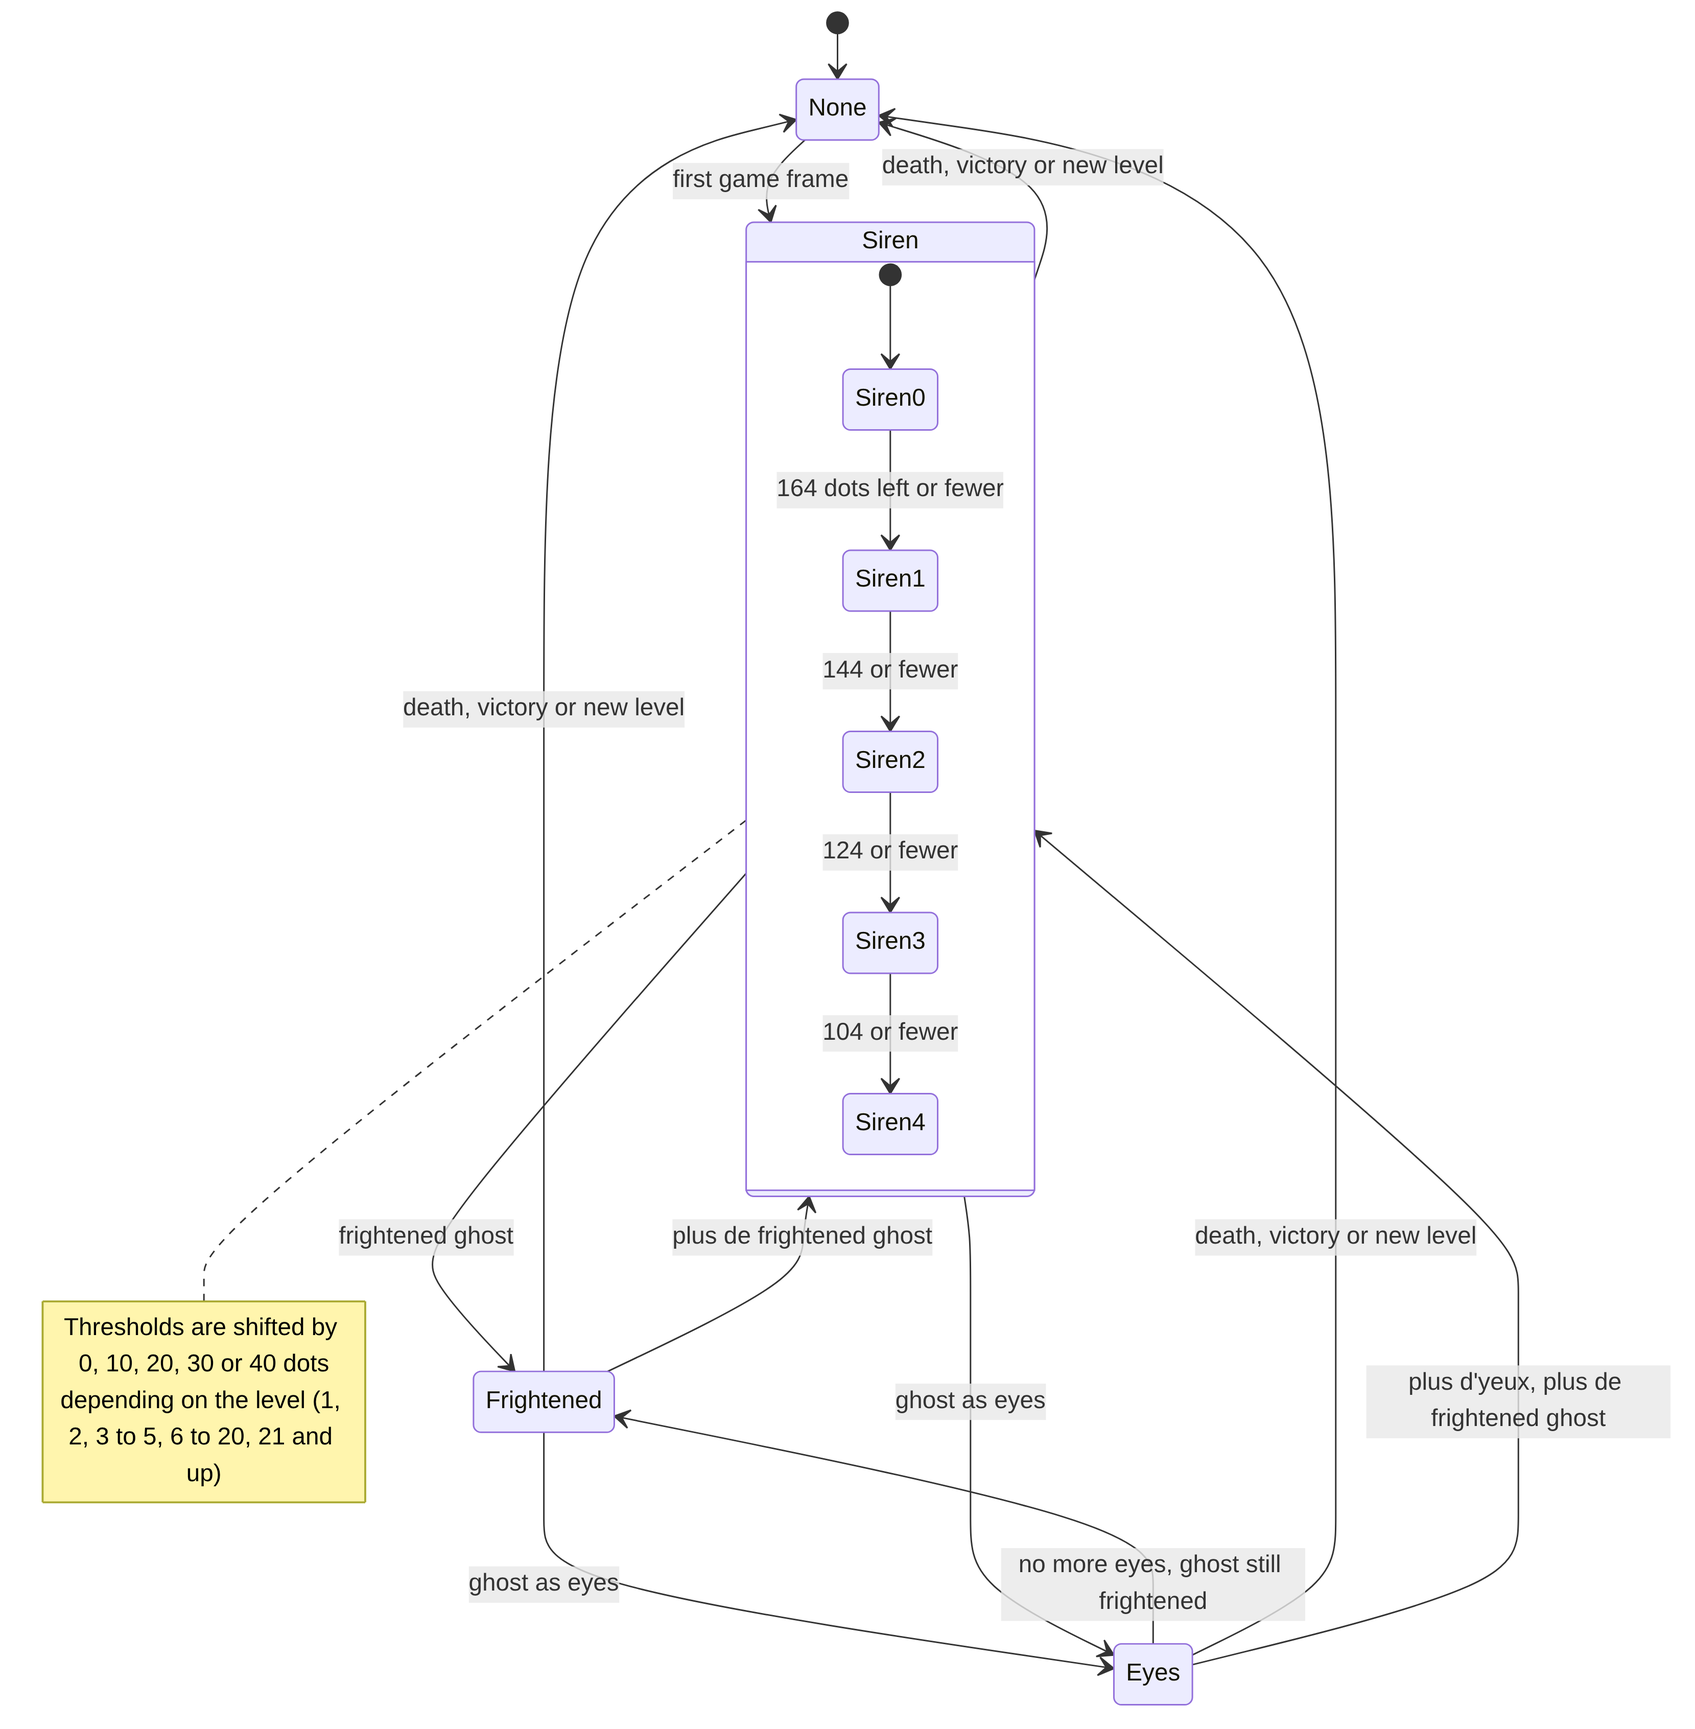
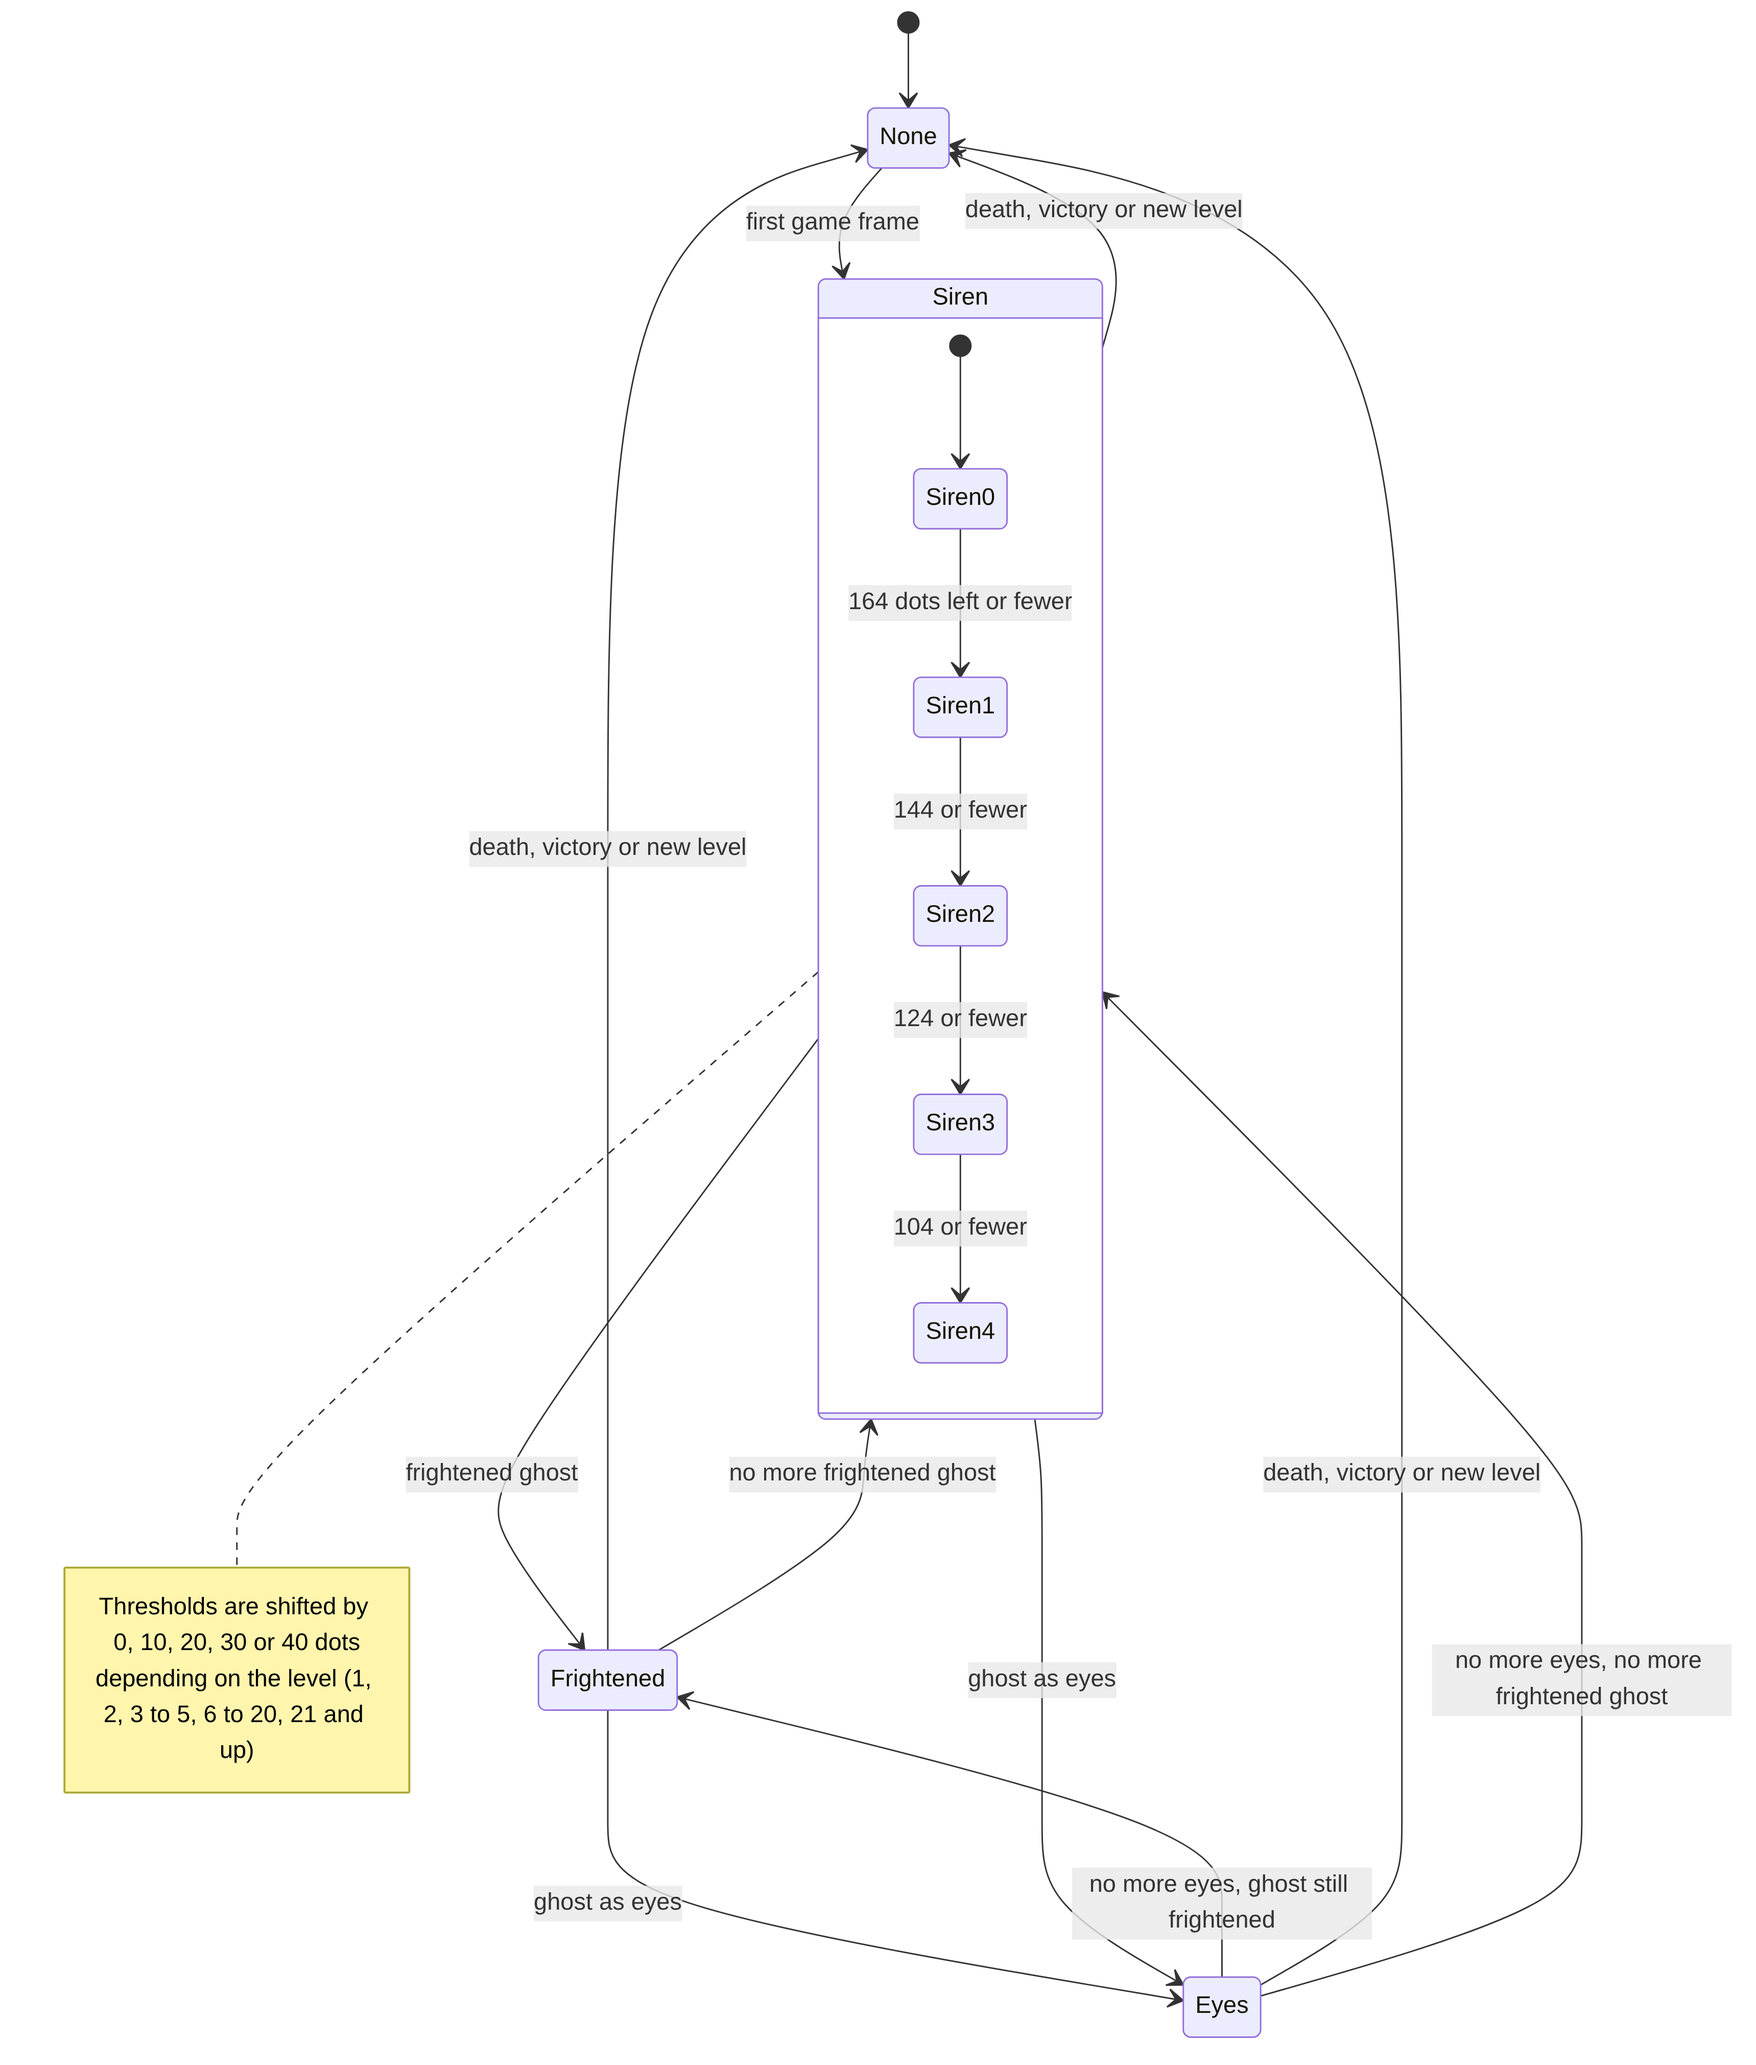
correction de la doc

diff --git a/docs/Pacman_UML_and_State_Diagrams_EN.md b/docs/Pacman_UML_and_State_Diagrams_EN.md
@@ -995,8 +995,8 @@ stateDiagram-v2
   Siren --> Eyes : ghost as eyes
   Frightened --> Eyes : ghost as eyes
   Eyes --> Frightened : no more eyes, ghost still frightened
-  Eyes --> Siren : plus d'yeux, plus de frightened ghost
-  Frightened --> Siren : plus de frightened ghost
+  Eyes --> Siren : no more eyes, no more frightened ghost
+  Frightened --> Siren : no more frightened ghost
   Siren --> None : death, victory or new level
   Frightened --> None : death, victory or new level
   Eyes --> None : death, victory or new level
